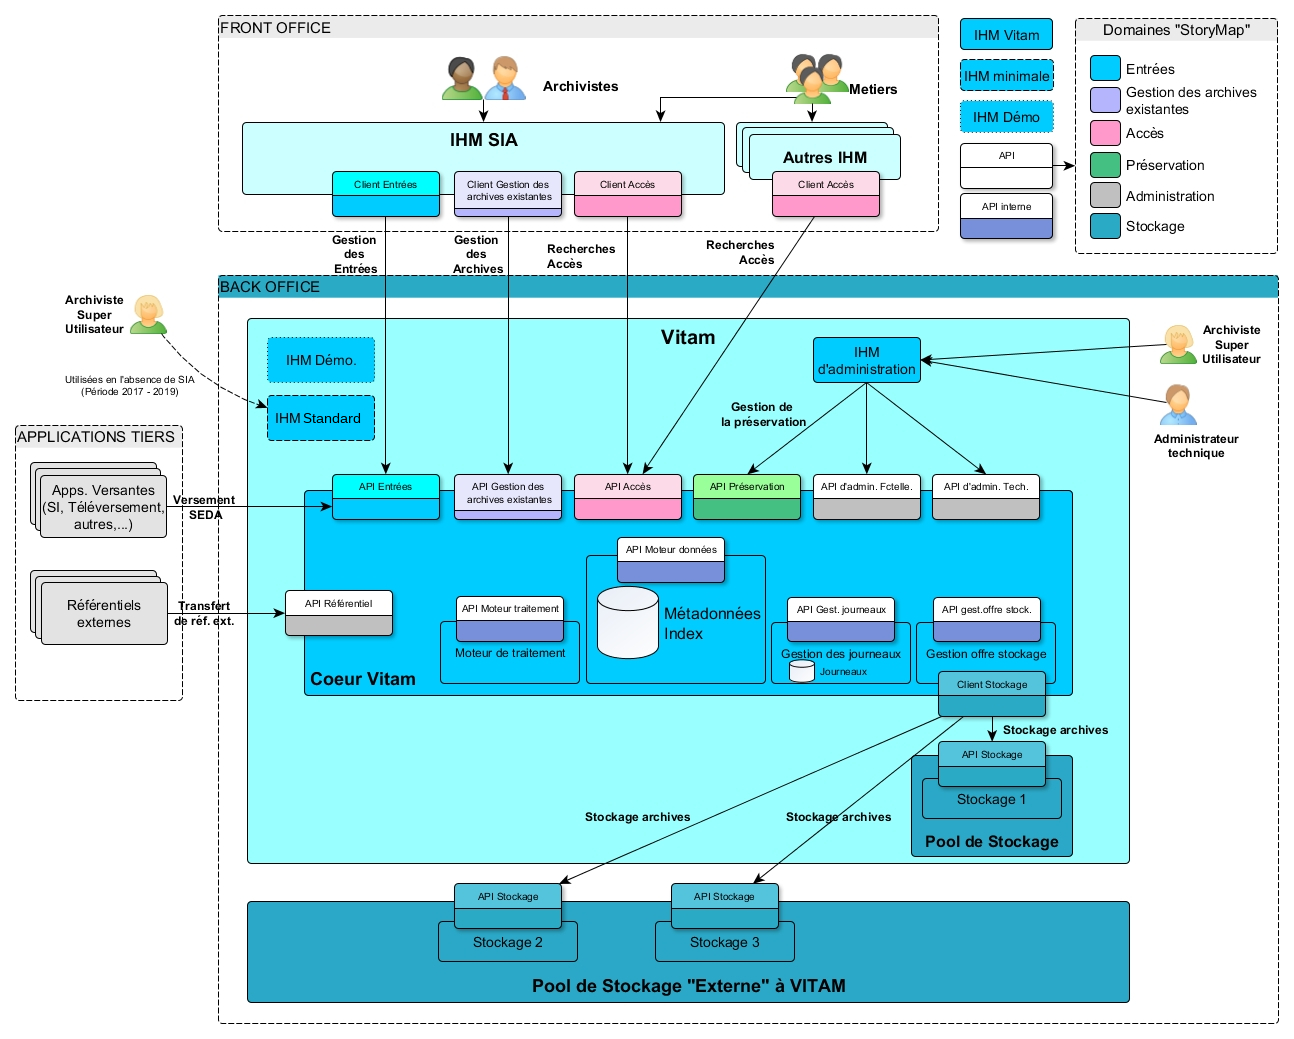
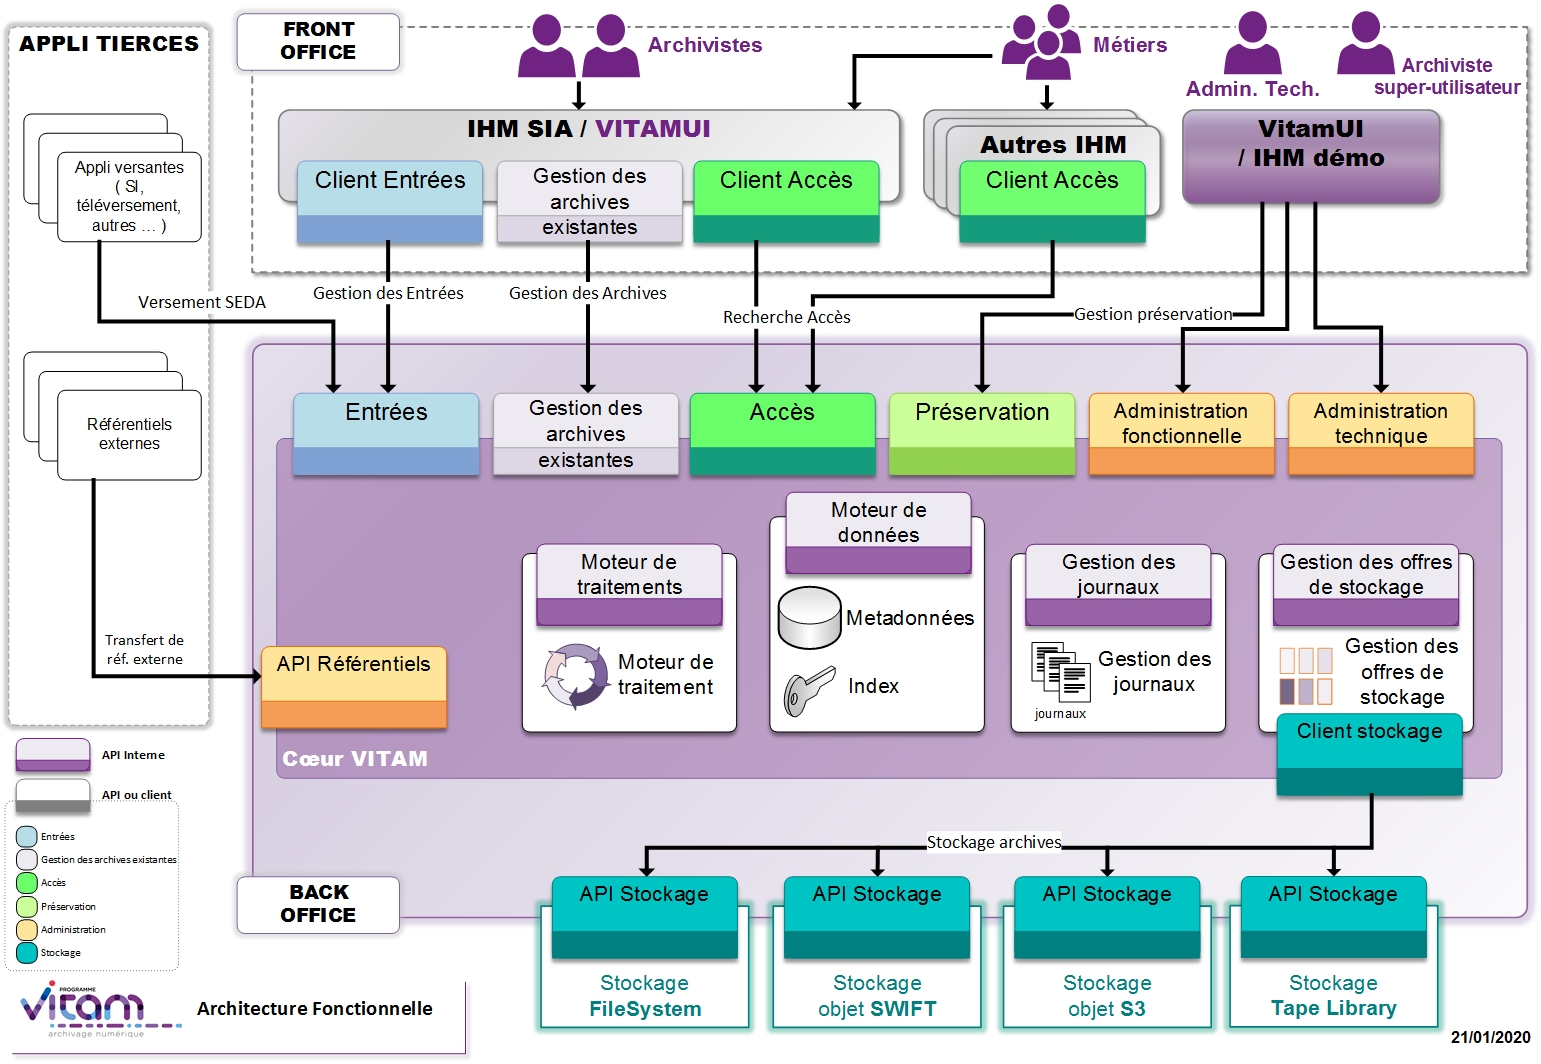
update_images

diff --git a/pages/presentation/pres_archivistes.md b/pages/presentation/pres_archivistes.md
@@ -10,7 +10,7 @@ La solution logicielle Vitam est librement réutilisable. Pour constituer une pl
 La solution logicielle Vitam assurera la prise en charge d’objets variés : fichiers bureautiques, données, images fixes et animées, enregistrements sonores, messages et messageries électroniques, etc.
 Elle répondra plus particulièrement aux besoins des services qui devront, à terme, gérer de très nombreux objets (plusieurs centaines de millions voire milliards). Elle pourra s’utiliser dans un contexte mutualisé, afin de gérer une multiplicité de services producteurs.
 
-![Schéma SAE Vitam](/public/images/SchemaSAEVitam.jpg){: style="display: block; margin-left: auto; margin-right: auto; height:30rem"} 
+![Schéma SAE Vitam](/public/images/202007_schéma_archi_résumé_V4.png){: style="display: block; margin-left: auto; margin-right: auto; height:30rem"} 
 
 ## Des fonctionnalités issues du modèle OAIS.
 
